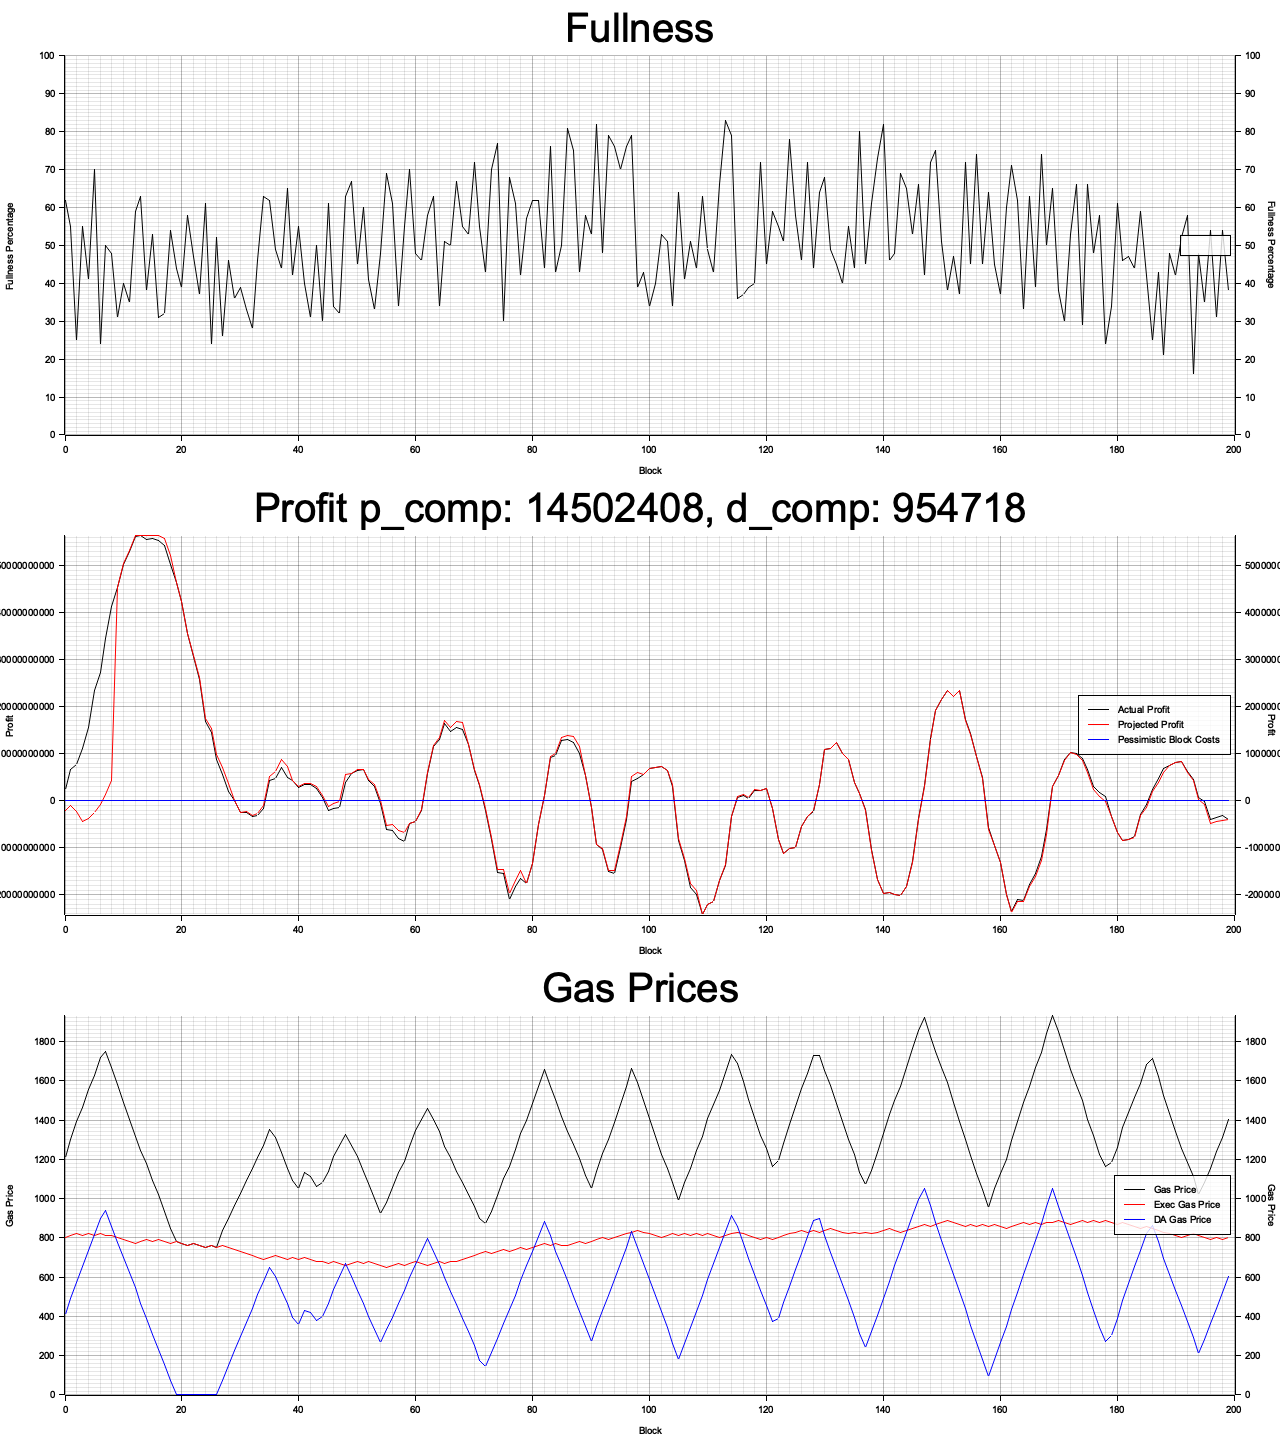
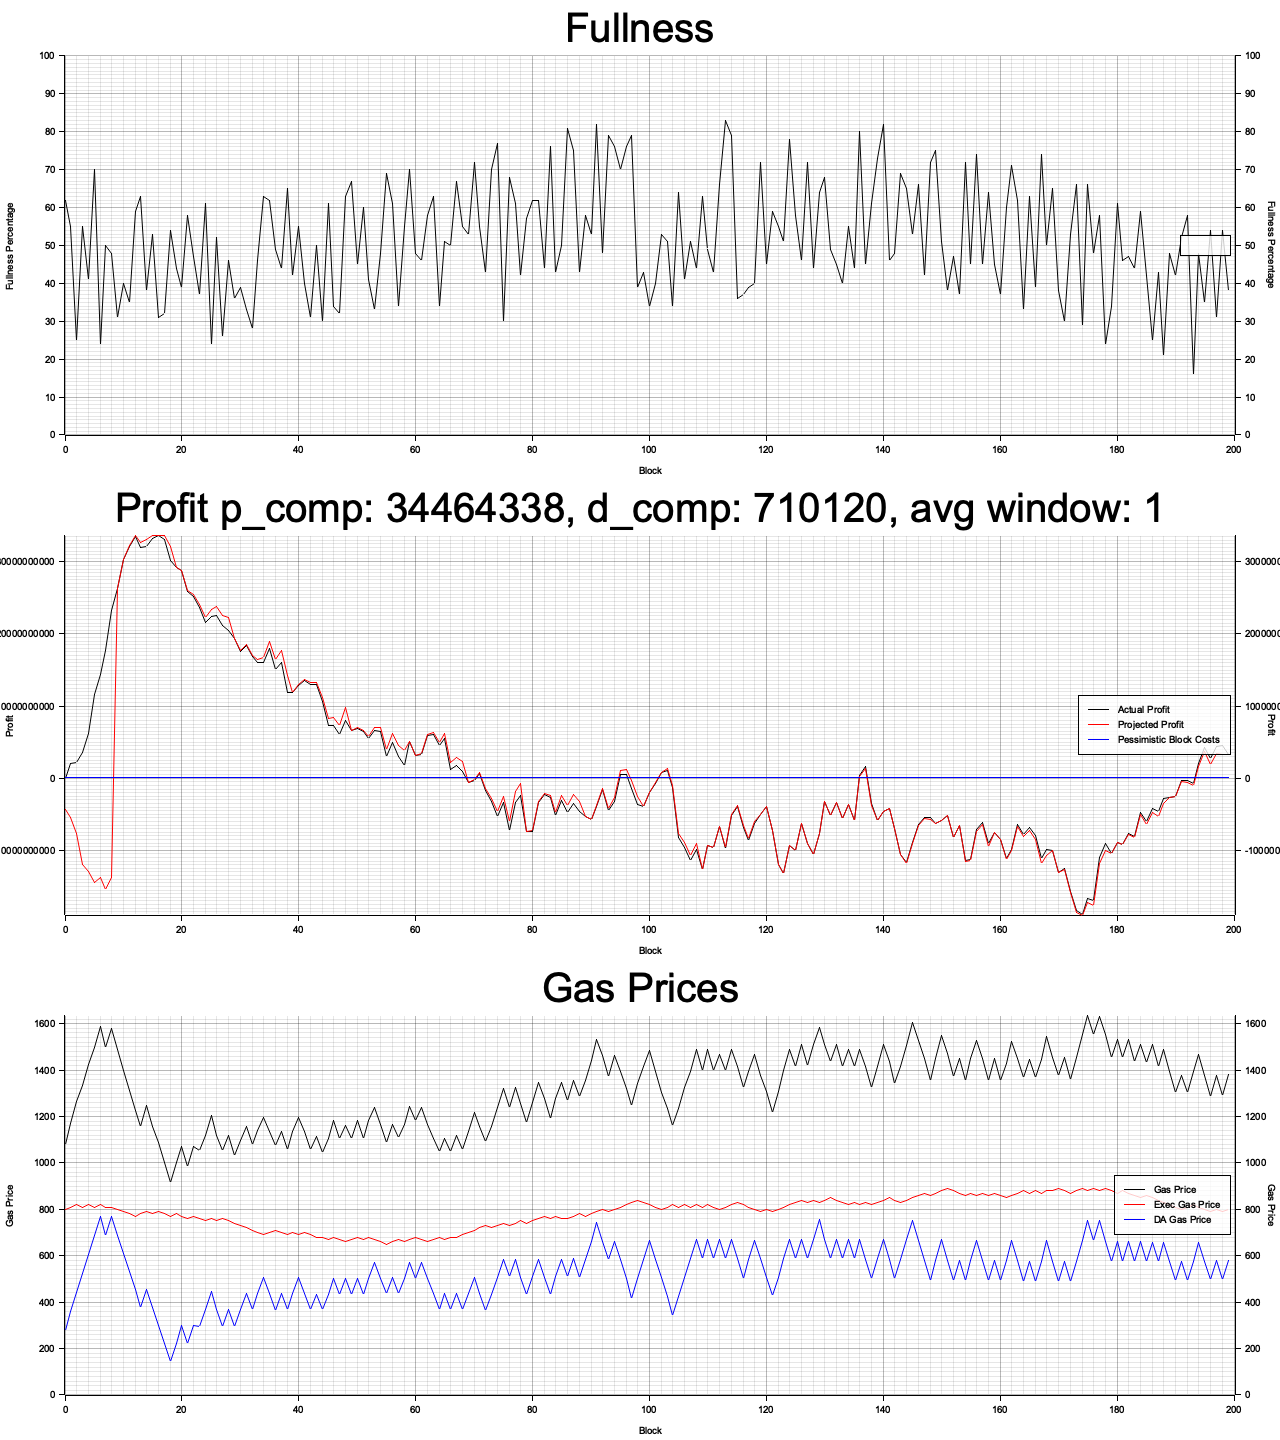
Remove avg window

Changed region(s): [[0.0, 0.3438, 1.0, 0.625], [0.0312, 0.6875, 1.0, 0.9688]]

diff --git a/crates/gas-price-algorithm/src/main.rs b/crates/gas-price-algorithm/src/main.rs
@@ -127,11 +127,12 @@ fn da_pid_comp(size: usize) -> Vec<(i64, i64)> {
         .collect()
 }
 
-fn naive_optimisation(iterations: usize) -> (SimulationResults, (i64, i64)) {
+fn naive_optimisation(iterations: usize) -> (SimulationResults, (i64, i64, u32)) {
+    let avg_window = 1;
     da_pid_comp(iterations)
         .iter()
-        .map(|(p, d)| (run_simulation(*p, *d), (*p, *d)))
-        .min_by_key(|(results, pair)| {
+        .map(|(p, d)| (run_simulation(*p, *d, avg_window), (*p, *d, avg_window)))
+        .min_by_key(|(results, _)| {
             let SimulationResults { actual_profit, .. } = results;
             actual_profit.iter().sum::<i64>()
         })
@@ -140,7 +141,8 @@ fn naive_optimisation(iterations: usize) -> (SimulationResults, (i64, i64)) {
 
 fn main() {
     let optimisation_iterations = 10_000;
-    let (best, (p_comp, d_comp)) = naive_optimisation(optimisation_iterations);
+    let (best, (p_comp, d_comp, avg_window)) =
+        naive_optimisation(optimisation_iterations);
     let SimulationResults {
         gas_prices,
         exec_gas_prices,
@@ -169,7 +171,9 @@ fn main() {
         &actual_profit,
         &projected_profit,
         &pessimistic_costs,
-        &format!("Profit p_comp: {p_comp:?}, d_comp: {d_comp:?}"),
+        &format!(
+            "Profit p_comp: {p_comp:?}, d_comp: {d_comp:?}, avg window: {avg_window:?}"
+        ),
     );
     draw_gas_prices(
         &bottom,
@@ -182,7 +186,11 @@ fn main() {
     root.present().unwrap();
 }
 
-fn run_simulation(da_p_component: i64, da_d_component: i64) -> SimulationResults {
+fn run_simulation(
+    da_p_component: i64,
+    da_d_component: i64,
+    avg_window: u32,
+) -> SimulationResults {
     // simulation parameters
     let size = 200;
     let da_recording_rate = 10;
@@ -226,7 +234,7 @@ fn run_simulation(da_p_component: i64, da_d_component: i64) -> SimulationResults
 
     let mut updater = AlgorithmUpdaterV1 {
         new_exec_price: 800,
-        last_da_price: 400,
+        last_da_price: 200,
         l2_block_height: 0,
         l2_block_fullness_threshold_percent: 50,
         exec_gas_price_increase_amount: 10,
@@ -240,7 +248,7 @@ fn run_simulation(da_p_component: i64, da_d_component: i64) -> SimulationResults
         da_p_component,
         da_d_component,
         profit_avg: 0,
-        avg_window: 10,
+        avg_window,
     };
 
     let mut gas_prices = vec![];
